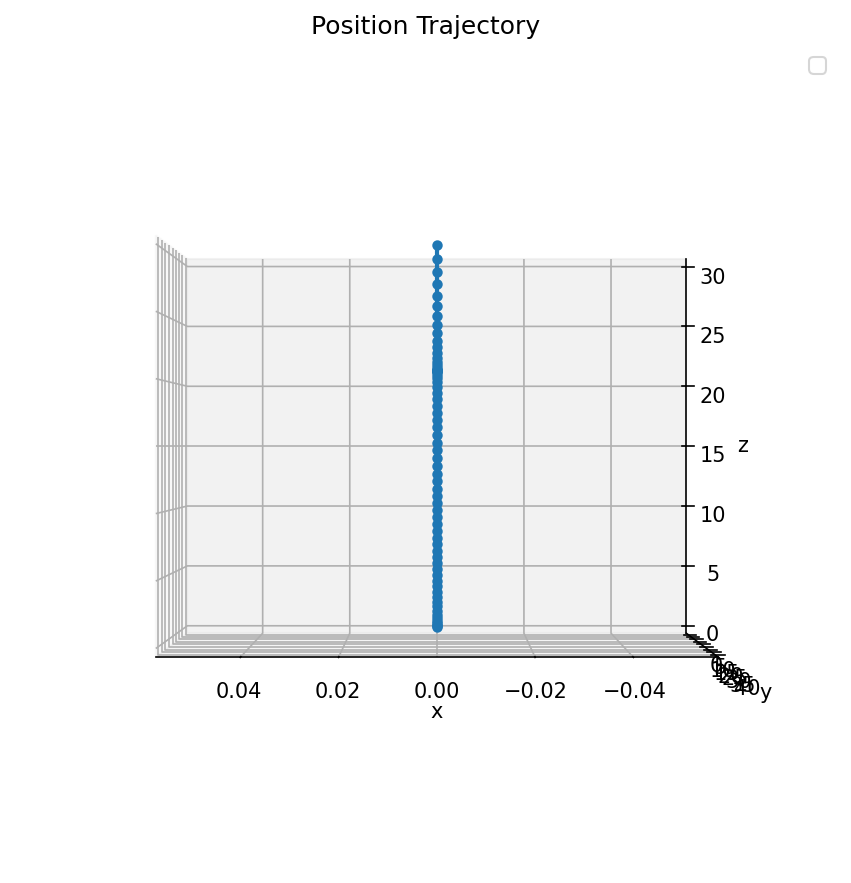
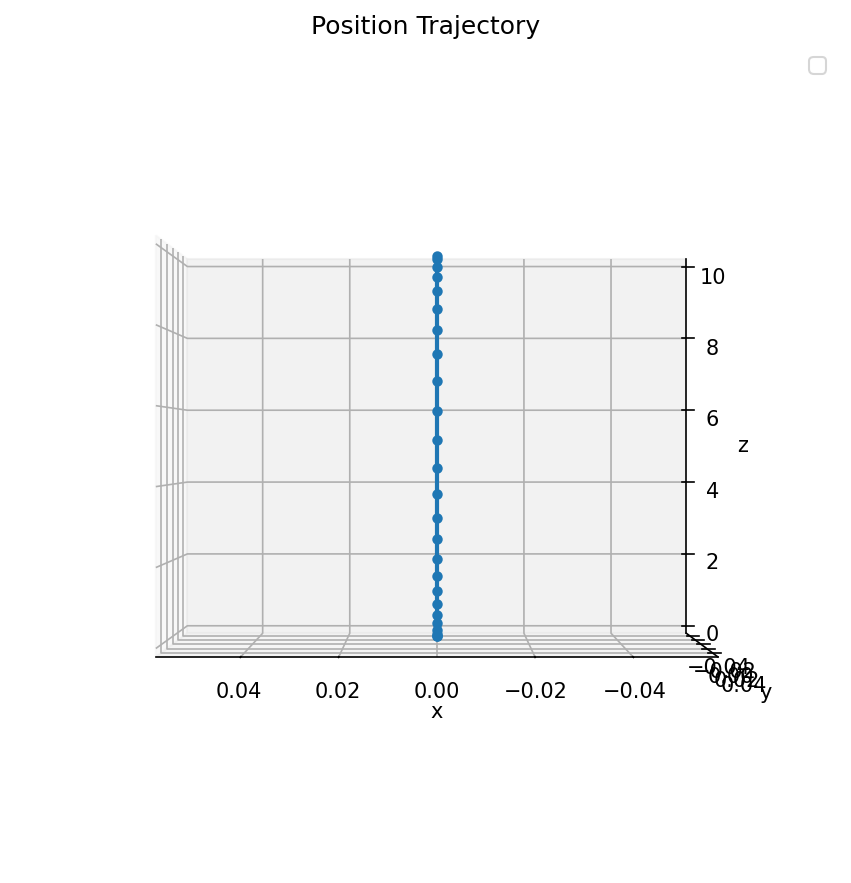
lossless does work backwards if the glide slope constraint is removed

diff --git a/Algorithms/LosslessConvexification/new_lossless.py b/Algorithms/LosslessConvexification/new_lossless.py
@@ -77,8 +77,6 @@ class LosslessConvexTaylorSolver:
                 v[:, k + 1] == v[:, k] + self.delta_t * (u[:, k] + self.g),
                 w[k + 1] == w[k] - self.delta_t * self.alpha * sigma[k]
             ]
-
-            # np.log(m0 + αρ2t)
             
             # Thrust magnitude constraints
             z_0 = np.log(m0 + self.alpha * self.upper_thrust_bound * self.delta_t * k)
@@ -98,11 +96,11 @@ class LosslessConvexTaylorSolver:
                 cp.norm(v[:, k], 2) <= self.max_velocity
             ]
 
-        # Glide slope constraint (cone)
-        for k in range(self.N + 1):
-            constraints += [
-                cp.norm(x[:2, k], 2) <= (1.0 / self.glide_slope) * x[2, k]
-            ]
+        # # Glide slope constraint (cone)
+        # for k in range(self.N + 1):
+        #     constraints += [
+        #         cp.norm(x[:2, k], 2) <= (1.0 / self.glide_slope) * x[2, k]
+        #     ]
 
         # Objective: minimize total fuel used (equivalent to maximizing final mass)
         objective = cp.Minimize(cp.sum(sigma) * self.delta_t)
@@ -121,10 +119,13 @@ class LosslessConvexTaylorSolver:
 
 if __name__ == "__main__":
     solver = LosslessConvexTaylorSolver(
-        landing_point=np.array([0, 0, 0]),
-        initial_position=np.array([0, 40, 30]),
-        initial_velocity=np.array([0, -8, -10]),
-        glide_slope=0.05,
+        # landing_point=np.array([0, 0, 0]),
+        # initial_position=np.array([0, 40, 30]),
+        # initial_velocity=np.array([0, -8, -10]),
+        landing_point=np.array([0, 0, 10]),
+        initial_position=np.array([0, 0, 0]),
+        initial_velocity=np.array([0, 0, 0]),
+        glide_slope=-0.05,
         max_velocity=100,
         dry_mass=100,
         fuel_mass=60,
